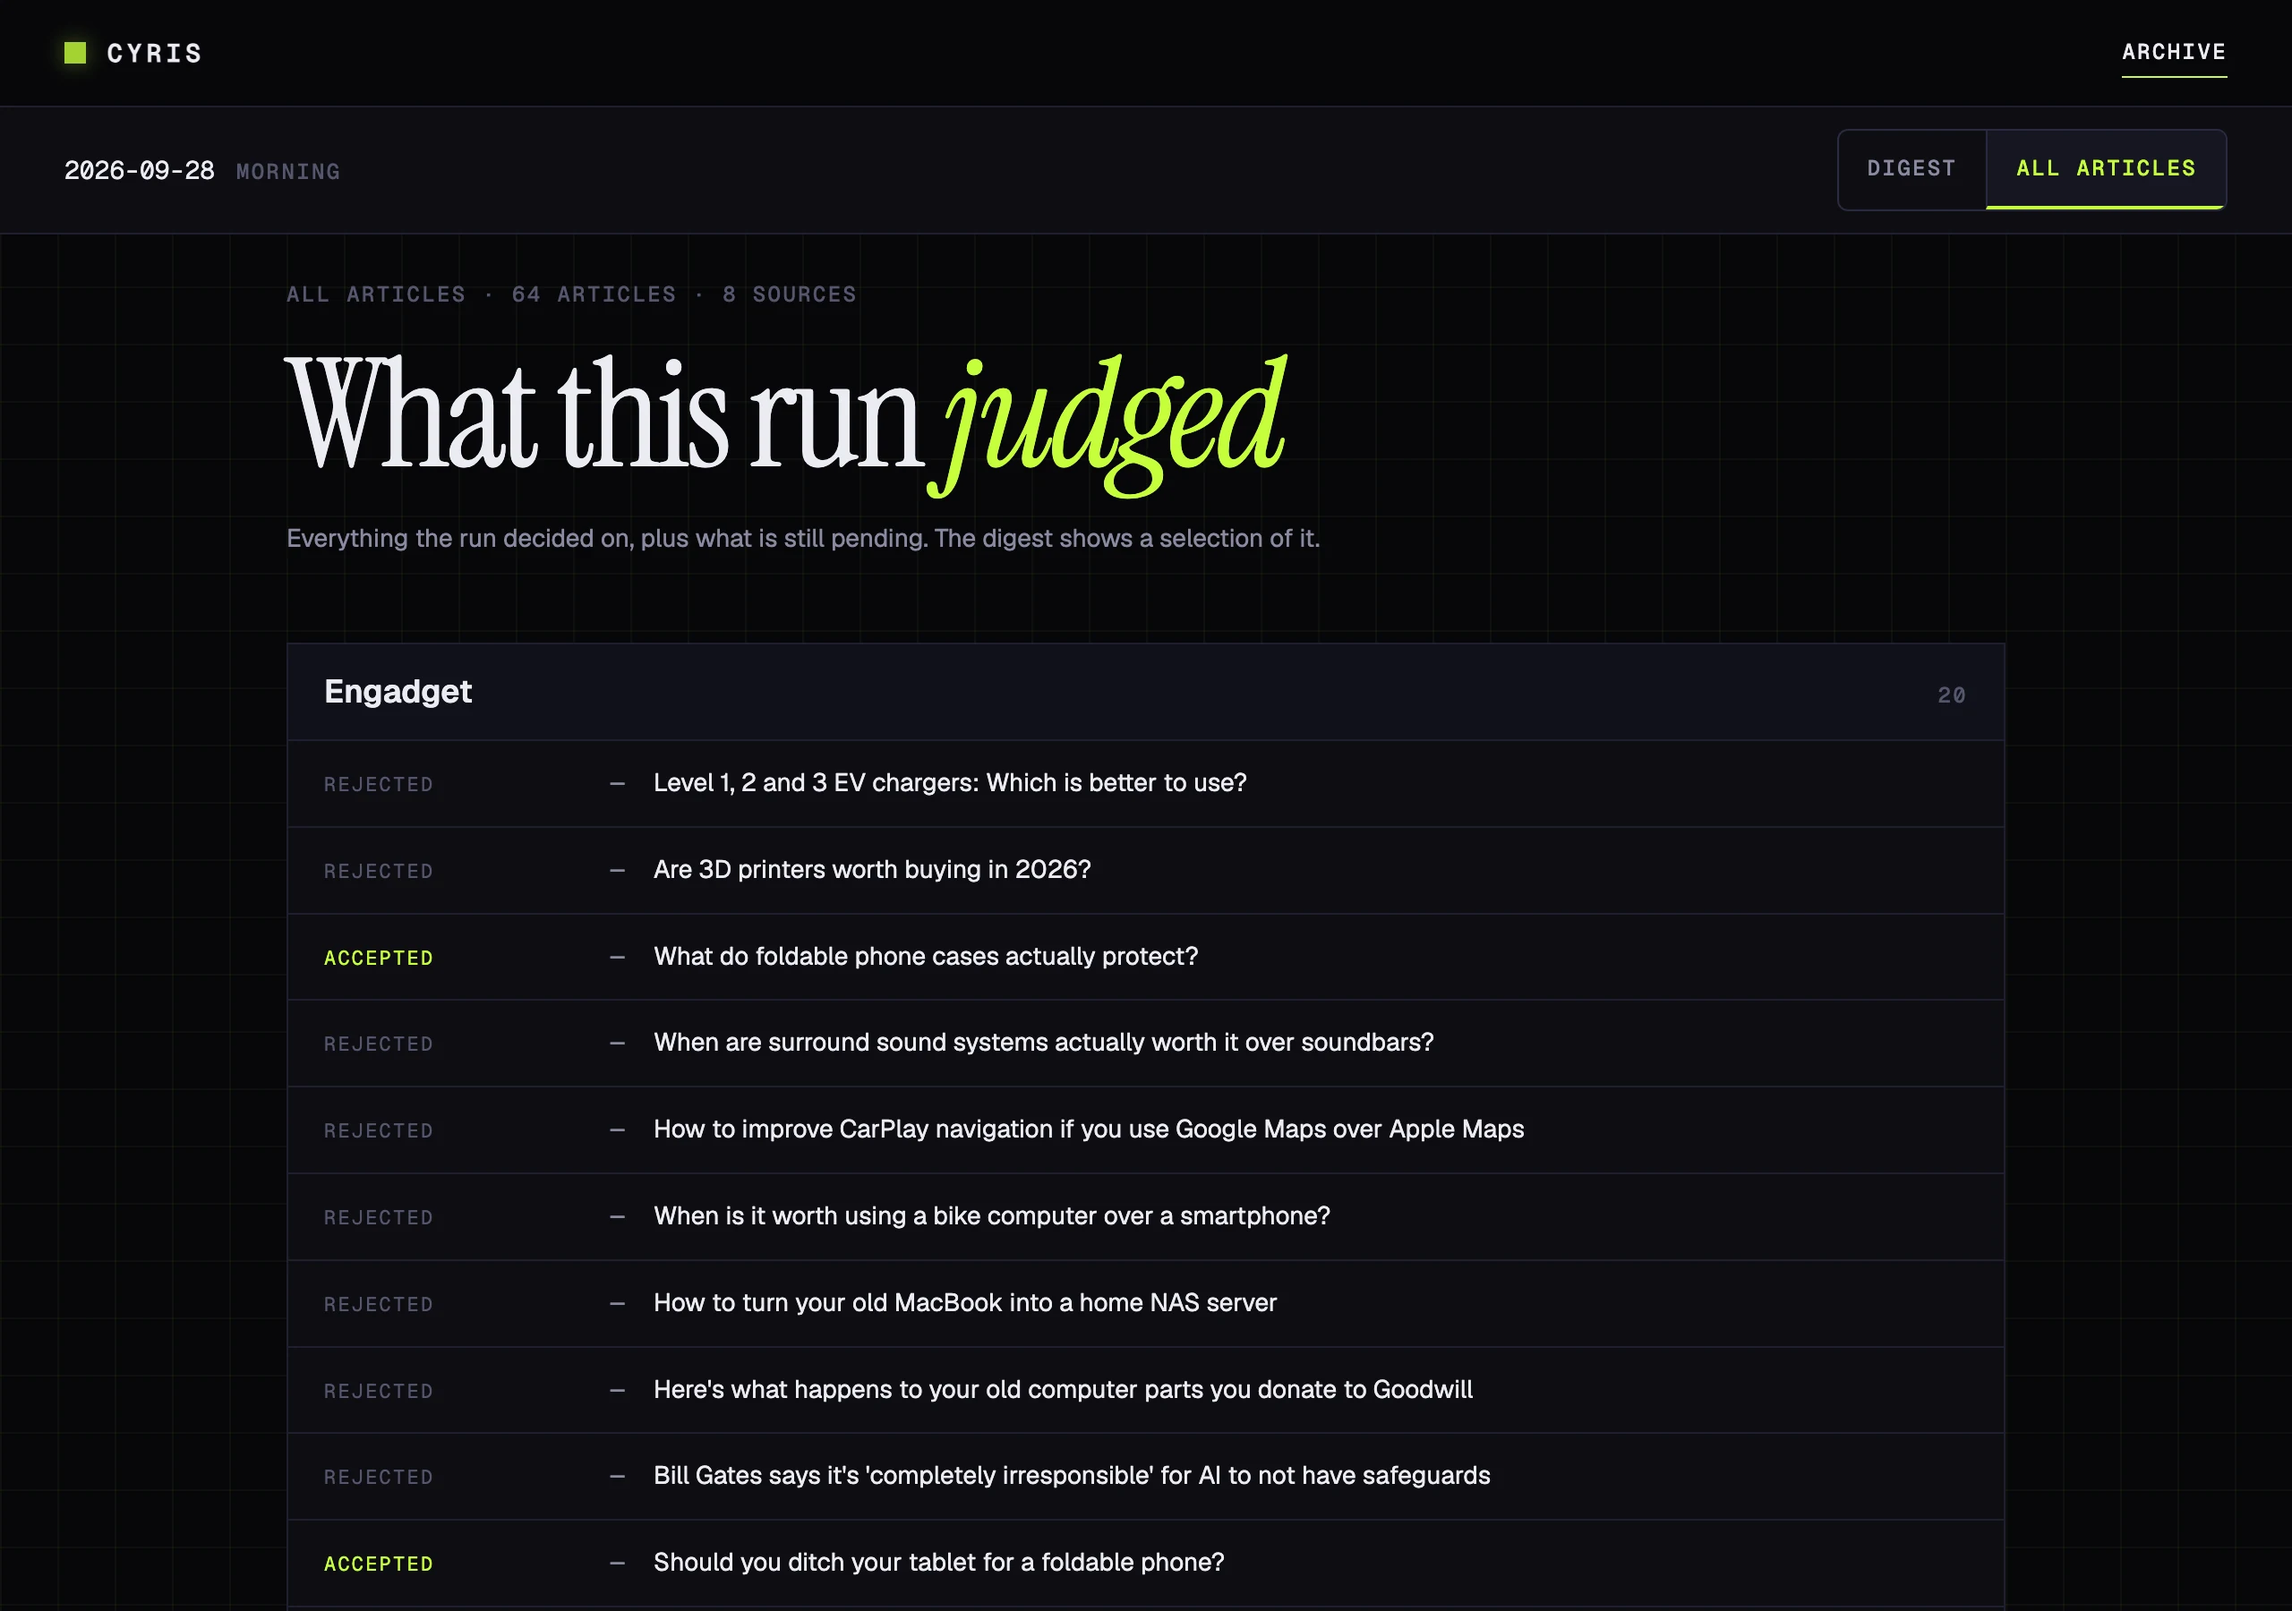
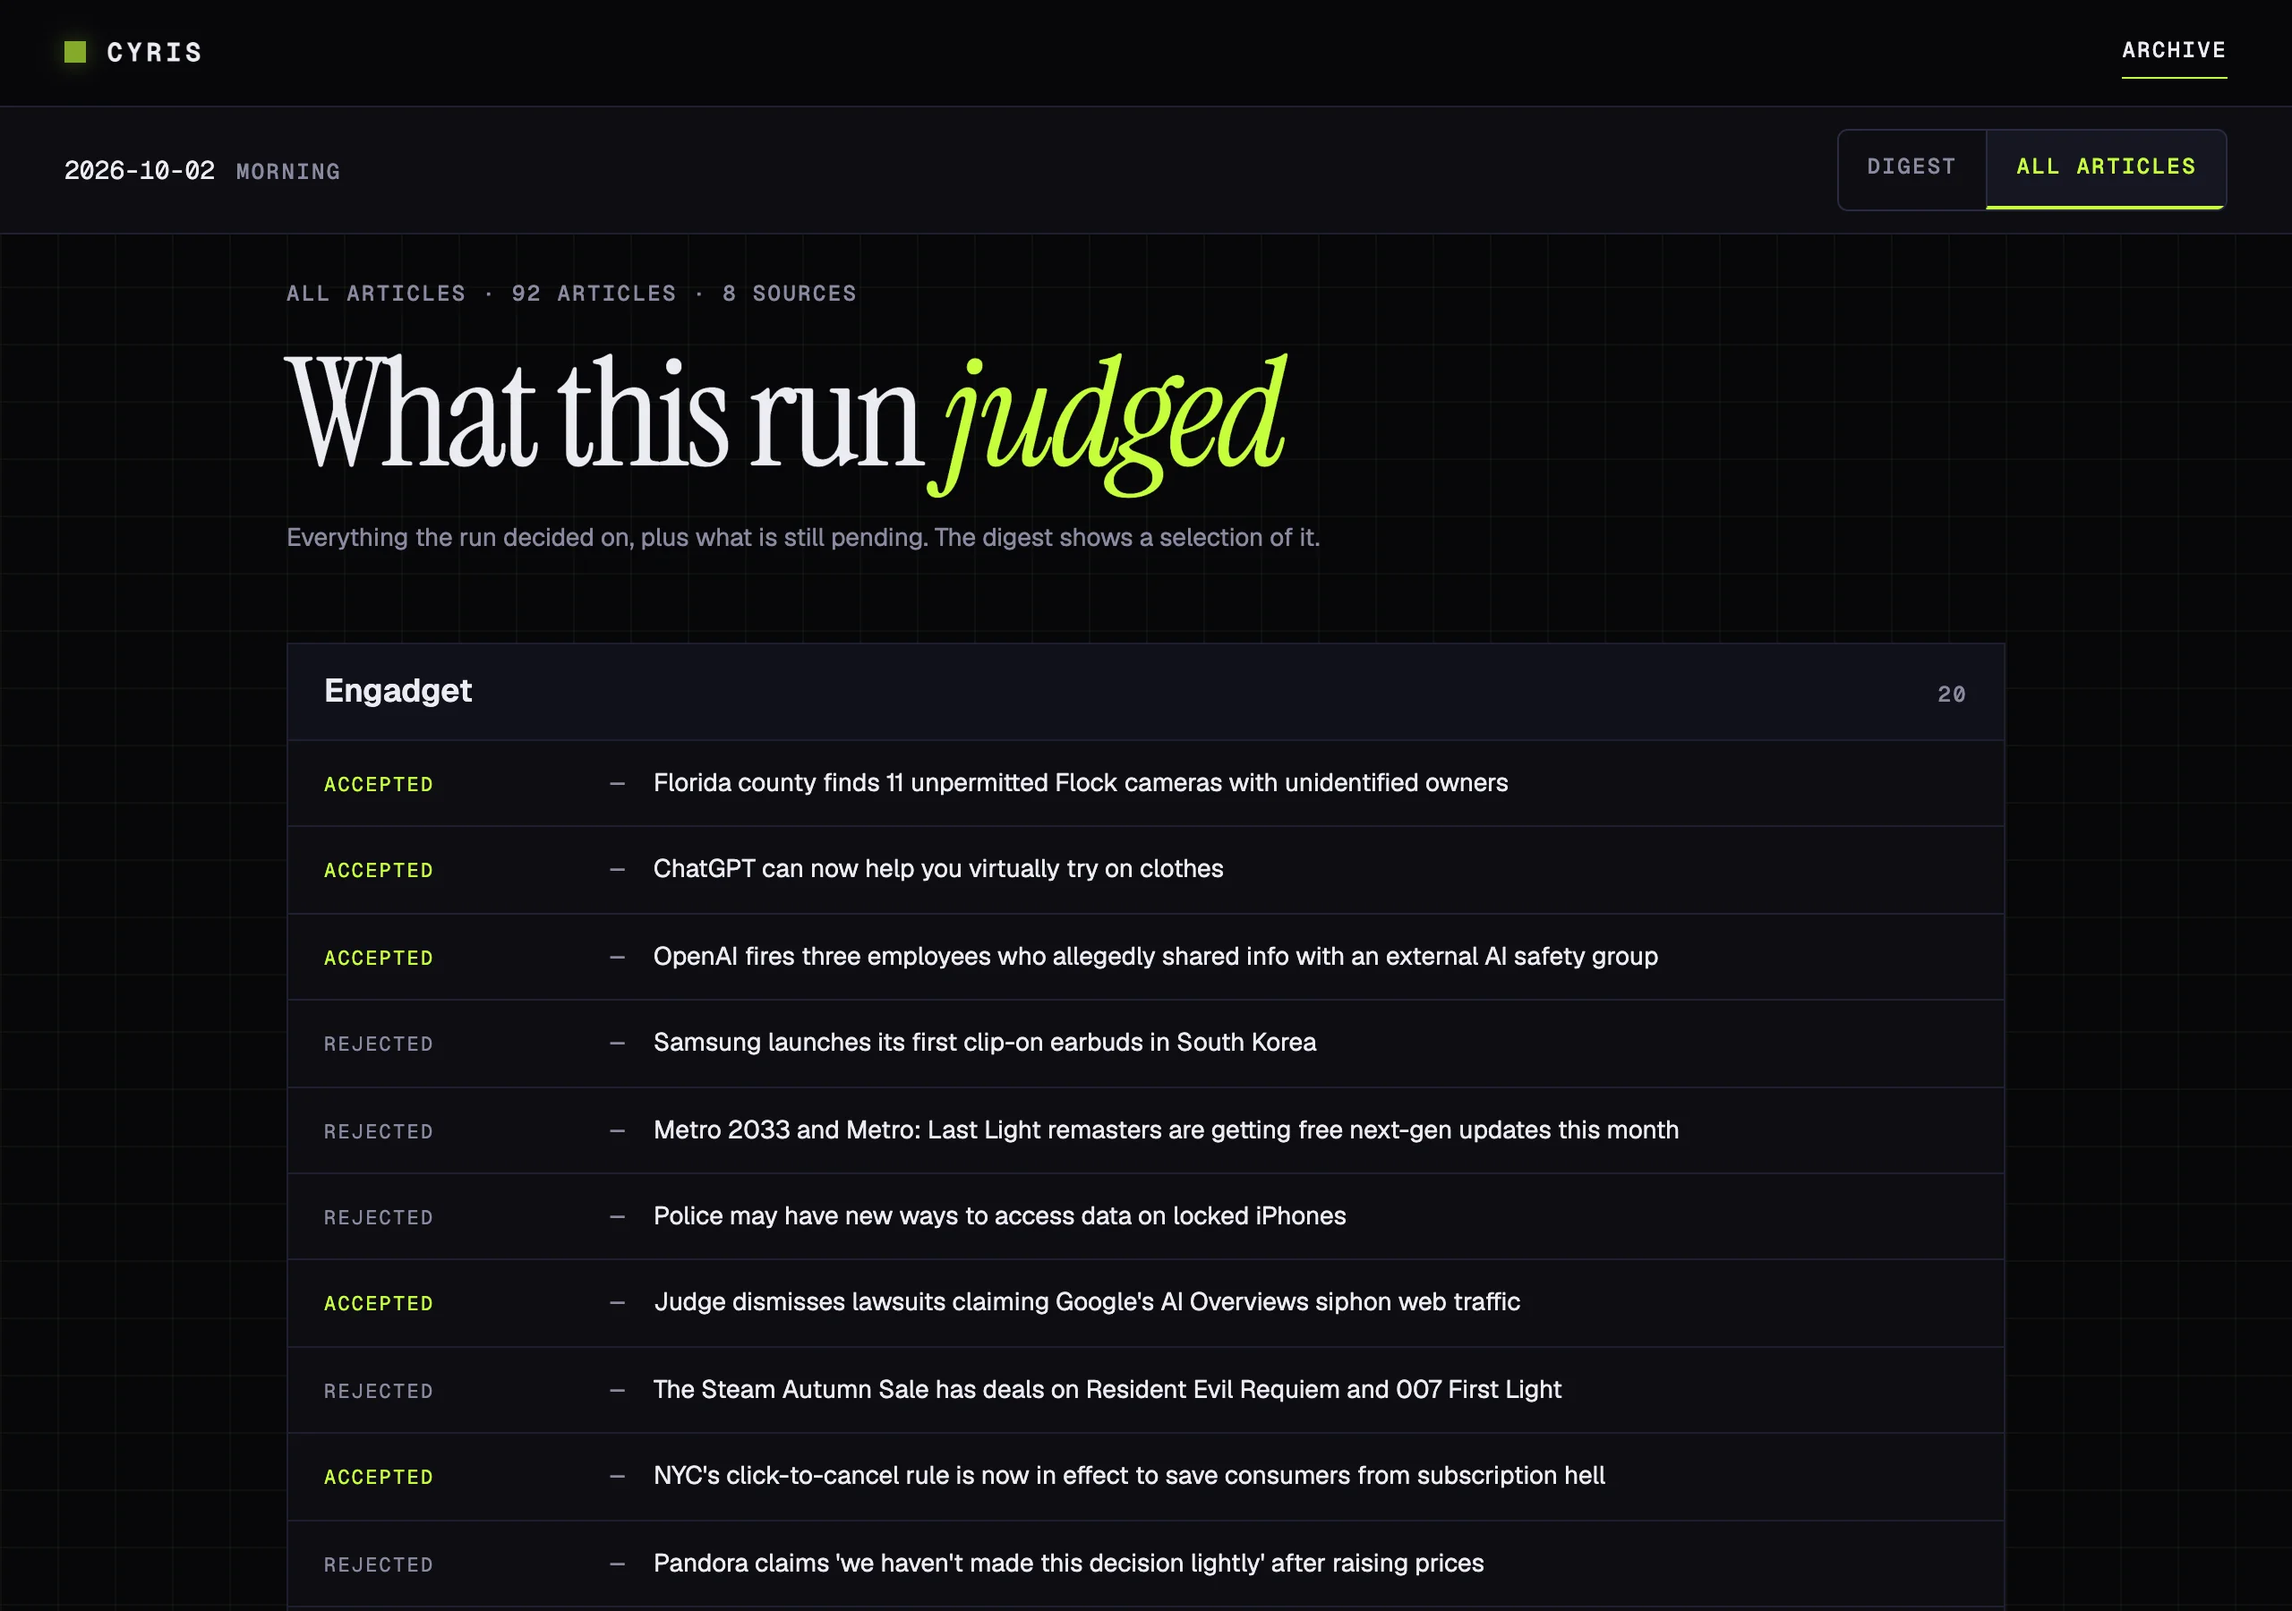
chore(website): retake the digest and All articles screenshots
Both images now show the current pages: labels on the dimmer text color
and a top story that is a group card summing up several posts. They come
from one local run over ten public tech feeds, at the same size and
framing as before. The alt text in the landing page, its Chinese
translation and the README describe the new run.

diff --git a/website/index.html b/website/index.html
@@ -173,7 +173,7 @@ html[lang="zh-Hant"] { --font-serif: 'Songti TC','Noto Serif CJK TC',Georgia,ser
         </div>
         <p class="hero-note" data-zh="免費、開源，不需要 AI 金鑰就能開始。真實摘要以繁體中文撰寫。">Free and open source. No AI key needed to start. The live digest is written in Traditional Chinese.</p>
         <p class="proof" data-zh="維護者自己的部署，2026 年 8 月 28 日至 9 月 27 日共 56 期：平均每期收進 &lt;strong&gt;91 篇&lt;/strong&gt;文章，留下 &lt;strong&gt;13 篇&lt;/strong&gt;，AI 費用約 &lt;strong&gt;US$0.03&lt;/strong&gt;。">The maintainer’s own deployment, 56 issues from Aug 28 to Sep 27, 2026: an average issue took in <strong>91 articles</strong>, kept <strong>13</strong>, and cost about <strong>US$0.03</strong> in AI.</p>
-        <img class="hero-shot" src="assets/digest.webp" width="2560" height="2000" alt="A Cyris digest: 8 sources, 64 articles received, 12 included, led by a top story" data-zh-alt="一期 Cyris 摘要：8 個來源，收進 64 篇文章，留下 12 篇，以頭條文章開場">
+        <img class="hero-shot" src="assets/digest.webp" width="2560" height="2000" alt="A Cyris digest: 8 sources, 92 articles received, 15 included, led by a top story on Cloudflare's infrastructure" data-zh-alt="一期 Cyris 摘要：8 個來源，收進 92 篇文章，留下 15 篇，以一則談 Cloudflare 基礎設施的頭條開場">
     </div>
 </header>
 <section id="how" aria-labelledby="how-title">

diff --git a/README.md b/README.md
@@ -13,7 +13,7 @@ issue took in 91 articles, kept 13, and cost about US$0.03 in LLM usage. That di
 public at [cyris-digest.pages.dev](https://cyris-digest.pages.dev/), written in
 Traditional Chinese.
 
-![A digest: 8 sources, 64 articles received, 12 included, led by a top story](website/assets/digest.webp)
+![A digest: 8 sources, 92 articles received, 15 included, led by a top story on Cloudflare's infrastructure](website/assets/digest.webp)
 
 ## What you get
 
@@ -29,7 +29,7 @@ Traditional Chinese.
 - **Any LLM, or none**: Anthropic, Gemini, OpenAI, Cloudflare Workers AI, or plain
   excerpts with no API key.
 
-![The All articles page of the same run: every article it judged, accepted or rejected, grouped by source](website/assets/all-articles.webp)
+![The All articles page of the same run: all 92 articles it judged, accepted or rejected, grouped by source](website/assets/all-articles.webp)
 
 ## Get started
 
